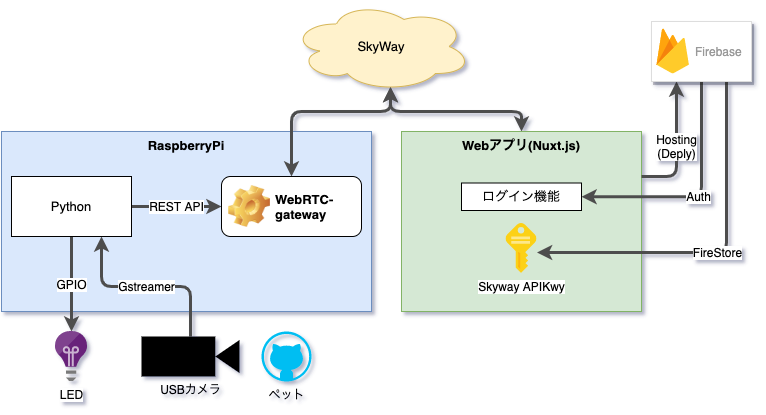
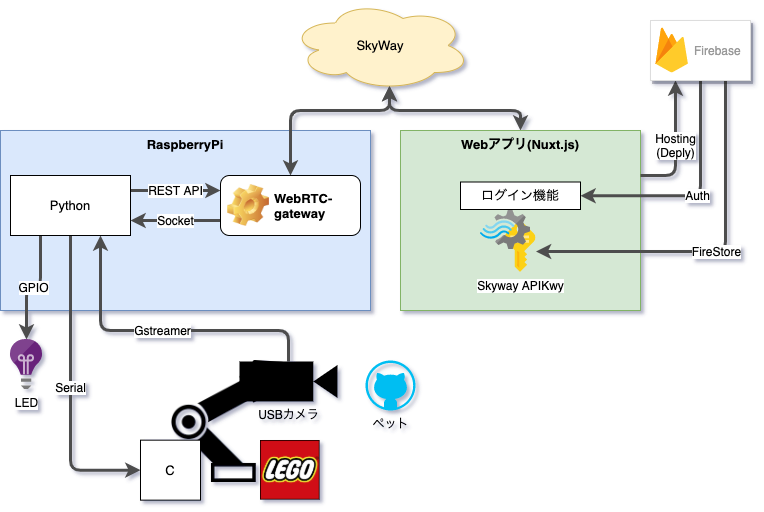
LEGOアーム用のREADMEを追記

diff --git a/README.md b/README.md
@@ -1,9 +1,10 @@
 # jetcam
 SkyWayとRaspberryPi(以下:ラズパイ)を利用したリモートカメラシステム。  
+LEGOと連動して遠隔からカメラアームを旋回・上下・首振り操作。  
 旅行中のペット見守りカメラとして開発。  
 
 ![frontend](doc/img/frontend.png)
-![raspberrypi](doc/img/raspi.jpg)  
+![lego](doc/img/lego.jpg)
 
 ![diagram](doc/img/diagram.png)
 
@@ -15,12 +16,13 @@ SkyWayとRaspberryPi(以下:ラズパイ)を利用したリモートカメラシ
 - ログイン認証付きWEBアプリで安心・安全
 - メッセージ入力により、LEDを点灯、消灯操作
 - メッセージ入力により、カメラがあるラズパイ側のプログラムをシャットダウン可能
-
+- WEBアプリを通して、カメラの付いたLEGOアームを操作可能
+- LEGOアーム操作は、Pan(旋回)、Pedestal(高さ)、Tilt(上下首振り)の3種
 
 ## Requirement
 - Webアプリ側(frontend): Nuxt.jsにて構築
 - ラズパイ側(backend): Pythonにて構築
-
+- LEGOアーム(カメラアーム): LEGO-EV3にてC言語でコンパイルしたファイルを実行
 
 ### ラズパイ
 実行環境
@@ -80,6 +82,42 @@ Webアプリのデプロイ先となる。
 #### Firestore
 SkyWay APIKeyを格納する。  
 `apis > SkyWay > key`こちらにstring形式で入力
+
+
+### LEGO
+Webアプリからの命令をラズパイを通して、LEGO-EV3に伝えて物理アームを制御する。  
+LEGOとラズパイは変換パーツを使ってシリアル接続。  
+
+LEGO-EV3ポートとUSBのシリアル接続パーツ [Console Adapter for EV3](http://www.mindsensors.com/ev3-and-nxt/40-console-adapter-for-ev3)
+
+使用したLEGO商品 [LEGO EV3](https://education.lego.com/ja-jp/products/-ev3-/5003400#%E6%95%99%E8%82%B2%E7%89%88%E3%83%AC%E3%82%B4-%E3%83%9E%E3%82%A4%E3%83%B3%E3%83%89%E3%82%B9%E3%83%88%E3%83%BC%E3%83%A0-ev3-%E5%9F%BA%E6%9C%AC%E3%82%BB%E3%83%83%E3%83%88)  
+  
+LEGO組み立ては、公式ページを参考にパーツを組み合わせて構築  
+ [基本セットモデル組立説明書](https://education.lego.com/ja-jp/product-resources/mindstorms-ev3/%E3%83%80%E3%82%A6%E3%83%B3%E3%83%AD%E3%83%BC%E3%83%89/%E7%B5%84%E7%AB%8B%E8%AA%AC%E6%98%8E%E6%9B%B8%EF%BC%8F%E3%82%B5%E3%83%B3%E3%83%97%E3%83%AB%E3%83%97%E3%83%AD%E3%82%B0%E3%83%A9%E3%83%A0)
+
+- メイン部分: ロボットアーム
+- カメラの上下首振り: パピーの一部
+
+
+#### LEGO-EV3の設定
+- 制御パーツEV3に開発プラットフォームEV3RTを環境構築
+- EV3RTでのLEGOモジュール制御用にC言語コンパイル
+- ラズパイとシリアル通信開設後に、EV3RTからコンパイルされたプログラムを起動
+
+参考:  
+[TOPPERS EV3RT公式ページ](https://dev.toppers.jp/trac_user/ev3pf/wiki/WhatsEV3RT)  
+[EV3RT C API Reference](https://www.toppers.jp/ev3pf/EV3RT_C_API_Reference/)  
+
+##### LEGO-EV3手順
+工程が多く複雑なため、プリファードネットワークが勧める、アフレルの教材を参考にする。  
+[pfnet-research/chainer-ev3](https://github.com/pfnet-research/chainer-ev3)  
+
+[アフレル 教材ページ](https://ai.afrel.co.jp/chainer.html)
+こちらのページの、「学習する」をクリックしてIDとパスワードを登録して（無料）教材をダウンロード。  
+
+- アフレルの教材を参考にGoogle ColaboratoryでのEV3実行環境構築を行う
+- Colaboratoryのノートブック上で、app.cを、`lego/workspace/app.c`に差し替える
+- 手順に従い、コンパイルしたファイルをEV3にSDカードで読み込ませて起動する
 
 
 ## Backend
